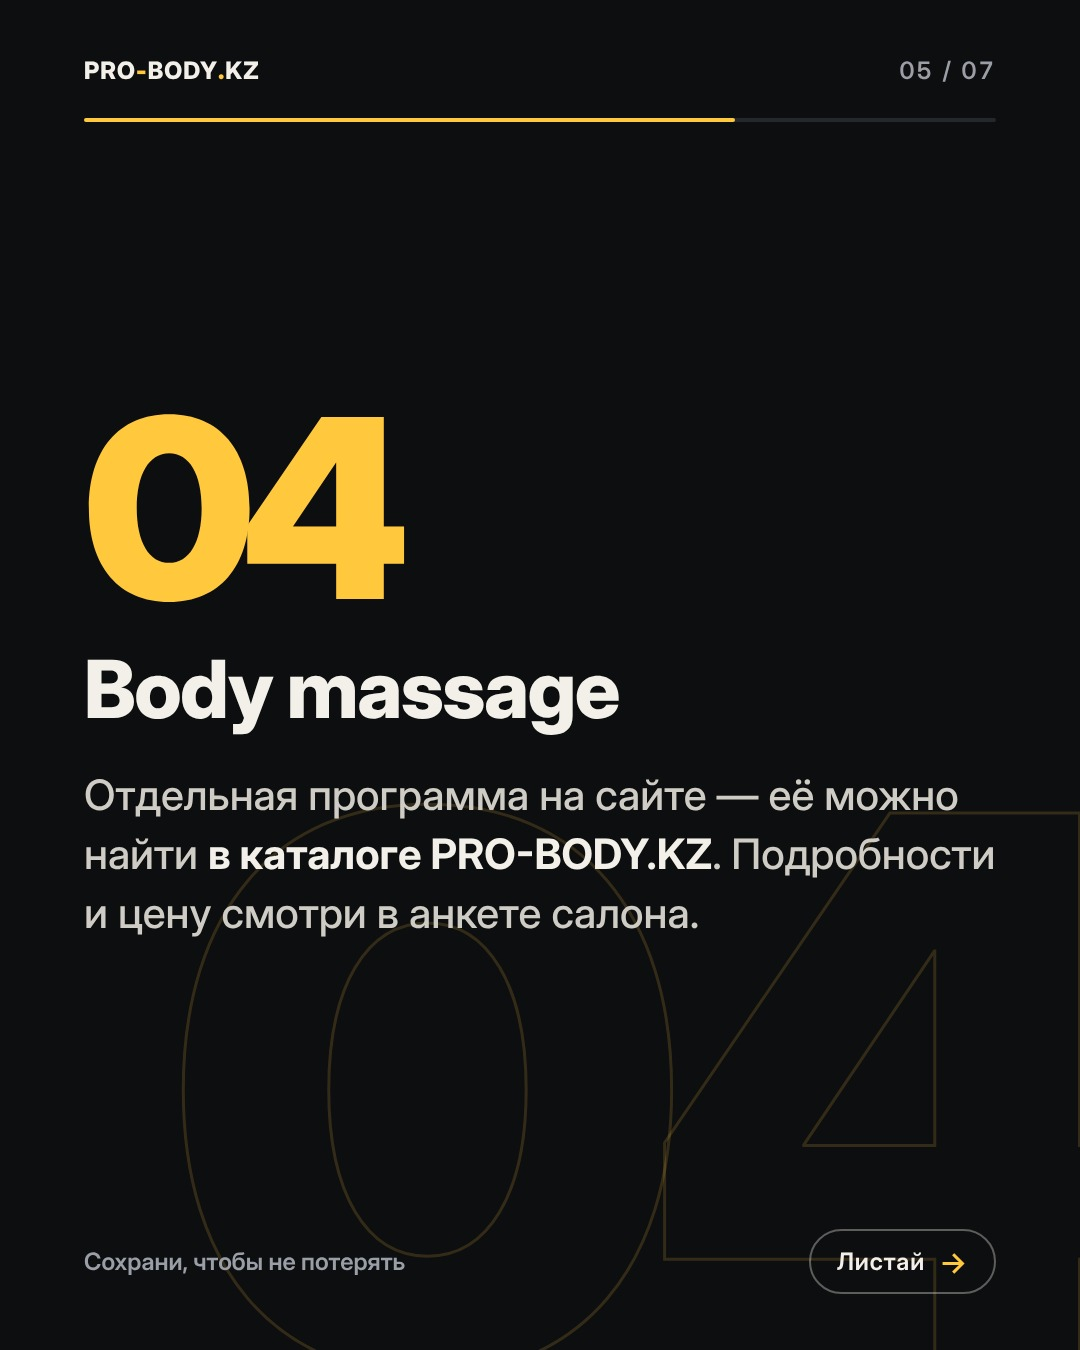
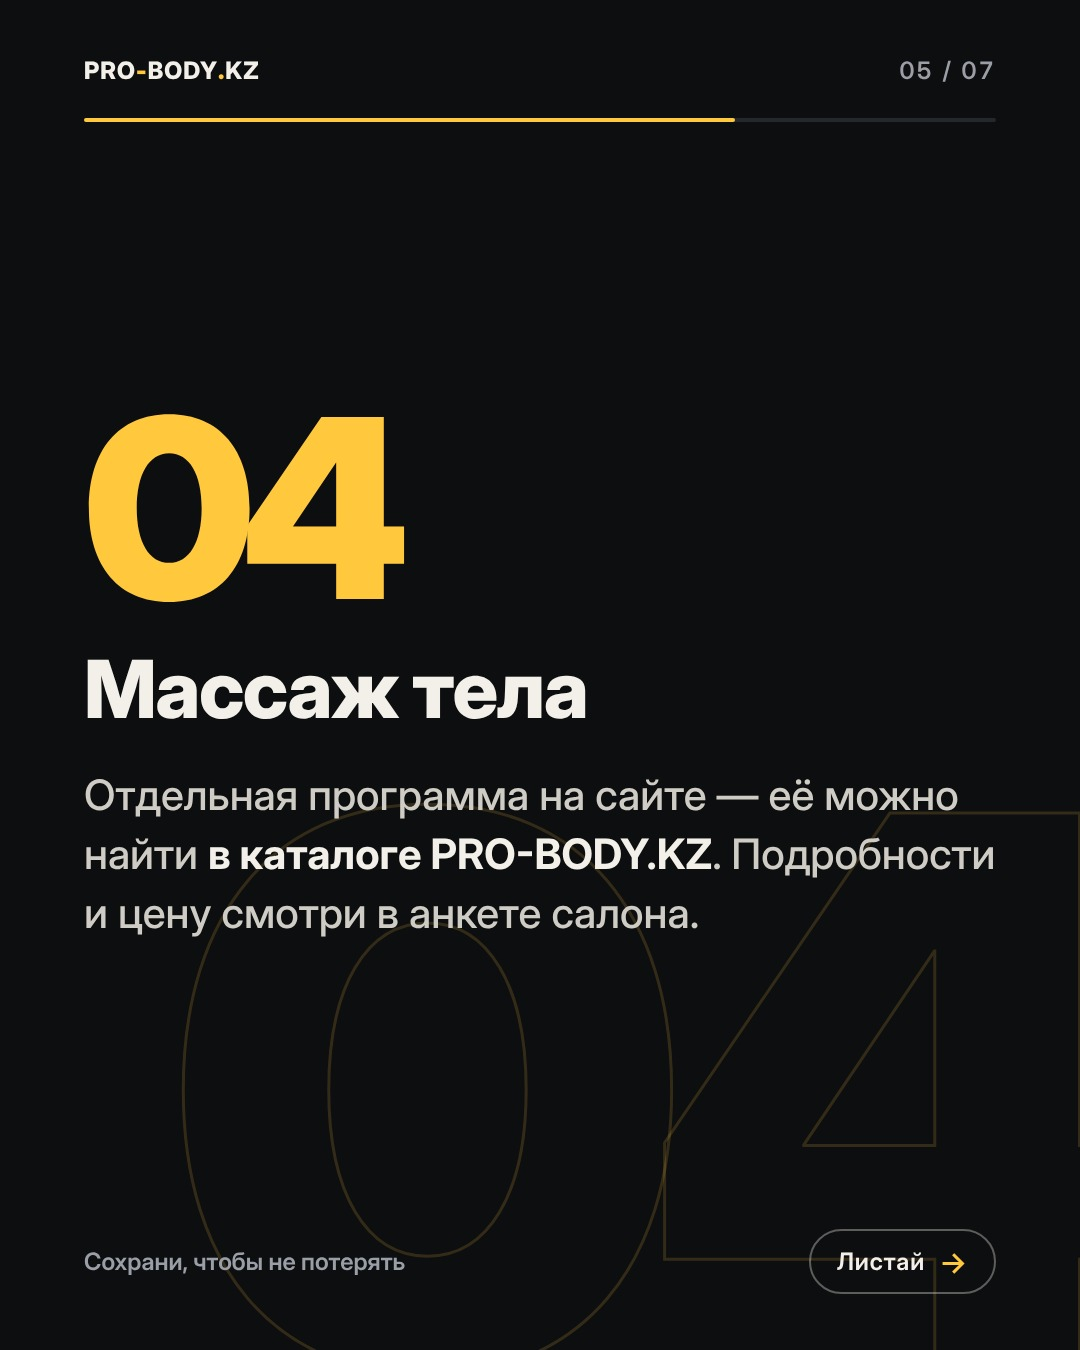
Start men carousels on 28.10; rename Body massage to Массаж тела
Claude-Session: https://claude.ai/code/session_01Ttgfn83Jtao5ELVCPUGwf7

Changed region(s): [[0.0917, 0.4667, 0.5806, 0.56]]

diff --git a/tools/carousels/specs/make_type.py b/tools/carousels/specs/make_type.py
@@ -38,7 +38,7 @@ C["c08"] = dict(slug="c08-types", caption=f"""Какой массаж выбра
  {"type":"text","num":"01","title":"Классический","body":"Универсальный выбор. **Разминает спину, шею, плечи** — подходит, если просто всё «забито» после рабочей недели."},
  {"type":"text","num":"02","title":"Спортивный","body":"Для тех, кто тренируется. Работа с **крупными мышцами ног, спины и плеч**, чтобы быстрее прийти в форму."},
  {"type":"text","num":"03","title":"Расслабляющий","body":"Мягкий темп и **снятие стресса**. Когда нужно не «размять», а выключить голову и выспаться."},
- {"type":"text","num":"04","title":"Body massage","body":"Отдельная программа на сайте — её можно найти **в каталоге PRO-BODY.KZ**. Подробности и цену смотри в анкете салона."},
+ {"type":"text","num":"04","title":"Массаж тела","body":"Отдельная программа на сайте — её можно найти **в каталоге PRO-BODY.KZ**. Подробности и цену смотри в анкете салона."},
  {"type":"steps","title":"Сколько по времени","items":[{"k":"30","t":"**Экспресс** — спина или шея, успеть в обед"},{"k":"60","t":"**Стандарт** — вся спина и плечи"},{"k":"90","t":"**Классический** — всё тело без спешки"}]},
  cta("Не уверен?\nСпроси мастера", "Напиши мастеру напрямую — он подскажет программу под твою задачу. Контакты в анкете на сайте.", ["WhatsApp","Telegram","Звонок"])])
 

diff --git a/content-plan-carousels-men.md b/content-plan-carousels-men.md
@@ -1,4 +1,4 @@
-# Карусели @probodykz для мужчин — план на 31.10–29.11.2026
+# Карусели @probodykz для мужчин — план на 28.10–26.11.2026
 
 Каждый день в 13:00 по Алматы, в дополнение к постам в 19:30. Формат: 7 слайдов 1080×1350.
 Схема: обложка-крючок (боль) → 3–4 слайда с объяснением → что помогает → как выбрать на PRO-BODY.KZ → призыв записаться.
@@ -7,36 +7,36 @@
 
 | # | Дата | Тема (крючок обложки) | Боль → решение | Обложка |
 |---|---|---|---|---|
-| 1 | 31.10 | 8 часов в кресле. Что происходит со спиной | шея, плечи, поясница офисника → разминка + массаж раз в 1–2 недели | фото: офис |
-| 2 | 01.11 | 5 признаков, что тебе пора на массаж | тест-самопроверка → запись | типографика |
-| 3 | 02.11 | После зала болит 3 дня? | забитые мышцы, медленное восстановление → спортивный массаж | фото: зал |
-| 4 | 03.11 | 2 часа за рулём каждый день | шея и поясница водителя → упражнения в пробке + массаж | фото: машина |
-| 5 | 04.11 | Голова тяжёлая к вечеру | напряжение шеи и плеч → массаж шейно-воротниковой зоны | фото |
-| 6 | 05.11 | Мифы: «массаж — это для женщин» | 5 мифов мужчин о массаже → разбор | типографика |
-| 7 | 06.11 | Стресс не уходит даже в выходные | тело держит напряжение → час на перезагрузку | фото |
-| 8 | 07.11 | Какой массаж выбрать мужчине | классический, спортивный, расслабляющий, body massage — кому что | типографика |
-| 9 | 08.11 | 30 минут в обед вместо кофе | нет времени → экспресс-программа рядом с офисом (карта) | фото |
-| 10 | 09.11 | Первый раз на массаже: чек-лист | неловкость, непонятно что говорить → 6 шагов | типографика |
-| 11 | 10.11 | Мышь, клавиатура, игры | кисть, предплечье, плечо → разминка + массаж рук и спины | фото: IT |
-| 12 | 11.11 | «Больно — значит работает»? | ошибка терпеть боль → как сказать мастеру о силе давления | типографика |
-| 13 | 12.11 | Плохо спишь после тяжёлой недели | вечерний ритуал → расслабляющий массаж | фото |
-| 14 | 13.11 | Как найти проверенный салон за 3 минуты | страх попасть «не туда» → галочка, отзывы по 3 параметрам | типографика |
-| 15 | 14.11 | Пятница. Ты заслужил | усталость недели → запись на выходные | фото |
-| 16 | 15.11 | Сколько стоит массаж в Алматы и Астане | непонятные цены → цена часа на карточке, фильтр по цене, акции | типографика |
-| 17 | 16.11 | Футбол, бег, хоккей по выходным | любительский спорт, перегруз → восстановление | фото: спорт |
-| 18 | 17.11 | 40+: спина уже не та | скованность по утрам → регулярность | фото |
-| 19 | 18.11 | 2 минуты для шеи прямо за столом | сохраняемая мини-тренировка + массаж для закрепления | типографика |
-| 20 | 19.11 | Командировка в Алматы или Астану | где найти массаж рядом с отелем → карта, 3 языка | фото: отель |
-| 21 | 20.11 | Спроси ИИ: «массаж спины после 22:00 рядом» | нет времени искать → ProAI | типографика |
-| 22 | 21.11 | Что сказать мастеру перед сеансом | зоны, давление, противопоказания → шпаргалка | фото |
-| 23 | 22.11 | Когда массаж делать НЕ стоит | противопоказания → доверие, сохранения | типографика |
-| 24 | 23.11 | Тяжёлая физическая работа | стройка, склад, ремонт → восстановление | фото |
-| 25 | 24.11 | Как часто нужен массаж | схема: офис, спорт, стресс | типографика |
-| 26 | 25.11 | Не можешь выбрать между двумя салонами? | сравнение анкет на сайте | фото |
-| 27 | 26.11 | Скидки до −50% на этой неделе | цена останавливает → раздел «Акции» | типографика |
-| 28 | 27.11 | Нашёл своего мастера — не потеряй | избранное, повторная запись | фото |
-| 29 | 28.11 | Подарок отцу, брату, другу | визит на массаж в подарок → выбор на сайте | фото |
-| 30 | 29.11 | План для спины на месяц | сохраняемый чек-лист-итог серии | типографика |
+| 1 | 28.10 | 8 часов в кресле. Что происходит со спиной | шея, плечи, поясница офисника → разминка + массаж раз в 1–2 недели | фото: офис |
+| 2 | 29.10 | 5 признаков, что тебе пора на массаж | тест-самопроверка → запись | типографика |
+| 3 | 30.10 | После зала болит 3 дня? | забитые мышцы, медленное восстановление → спортивный массаж | фото: зал |
+| 4 | 31.10 | 2 часа за рулём каждый день | шея и поясница водителя → упражнения в пробке + массаж | фото: машина |
+| 5 | 01.11 | Голова тяжёлая к вечеру | напряжение шеи и плеч → массаж шейно-воротниковой зоны | фото |
+| 6 | 02.11 | Мифы: «массаж — это для женщин» | 5 мифов мужчин о массаже → разбор | типографика |
+| 7 | 03.11 | Стресс не уходит даже в выходные | тело держит напряжение → час на перезагрузку | фото |
+| 8 | 04.11 | Какой массаж выбрать мужчине | классический, спортивный, расслабляющий, массаж тела — кому что | типографика |
+| 9 | 05.11 | 30 минут в обед вместо кофе | нет времени → экспресс-программа рядом с офисом (карта) | фото |
+| 10 | 06.11 | Первый раз на массаже: чек-лист | неловкость, непонятно что говорить → 6 шагов | типографика |
+| 11 | 07.11 | Мышь, клавиатура, игры | кисть, предплечье, плечо → разминка + массаж рук и спины | фото: IT |
+| 12 | 08.11 | «Больно — значит работает»? | ошибка терпеть боль → как сказать мастеру о силе давления | типографика |
+| 13 | 09.11 | Плохо спишь после тяжёлой недели | вечерний ритуал → расслабляющий массаж | фото |
+| 14 | 10.11 | Как найти проверенный салон за 3 минуты | страх попасть «не туда» → галочка, отзывы по 3 параметрам | типографика |
+| 15 | 11.11 | Пятница. Ты заслужил | усталость недели → запись на выходные | фото |
+| 16 | 12.11 | Сколько стоит массаж в Алматы и Астане | непонятные цены → цена часа на карточке, фильтр по цене, акции | типографика |
+| 17 | 13.11 | Футбол, бег, хоккей по выходным | любительский спорт, перегруз → восстановление | фото: спорт |
+| 18 | 14.11 | 40+: спина уже не та | скованность по утрам → регулярность | фото |
+| 19 | 15.11 | 2 минуты для шеи прямо за столом | сохраняемая мини-тренировка + массаж для закрепления | типографика |
+| 20 | 16.11 | Командировка в Алматы или Астану | где найти массаж рядом с отелем → карта, 3 языка | фото: отель |
+| 21 | 17.11 | Спроси ИИ: «массаж спины после 22:00 рядом» | нет времени искать → ProAI | типографика |
+| 22 | 18.11 | Что сказать мастеру перед сеансом | зоны, давление, противопоказания → шпаргалка | фото |
+| 23 | 19.11 | Когда массаж делать НЕ стоит | противопоказания → доверие, сохранения | типографика |
+| 24 | 20.11 | Тяжёлая физическая работа | стройка, склад, ремонт → восстановление | фото |
+| 25 | 21.11 | Как часто нужен массаж | схема: офис, спорт, стресс | типографика |
+| 26 | 22.11 | Не можешь выбрать между двумя салонами? | сравнение анкет на сайте | фото |
+| 27 | 23.11 | Скидки до −50% на этой неделе | цена останавливает → раздел «Акции» | типографика |
+| 28 | 24.11 | Нашёл своего мастера — не потеряй | избранное, повторная запись | фото |
+| 29 | 25.11 | Подарок отцу, брату, другу | визит на массаж в подарок → выбор на сайте | фото |
+| 30 | 26.11 | План для спины на месяц | сохраняемый чек-лист-итог серии | типографика |
 
 Подпись к каждой: крючок, 3–4 строки пользы, вопрос в комментарии («Что болит у тебя — шея или поясница?»), «Сохрани», ссылка в шапке, 6–8 хэштегов (#массажалматы #массажастана #массаждлямужчин #массажспины #спортивныймассаж #probodykz).
 
